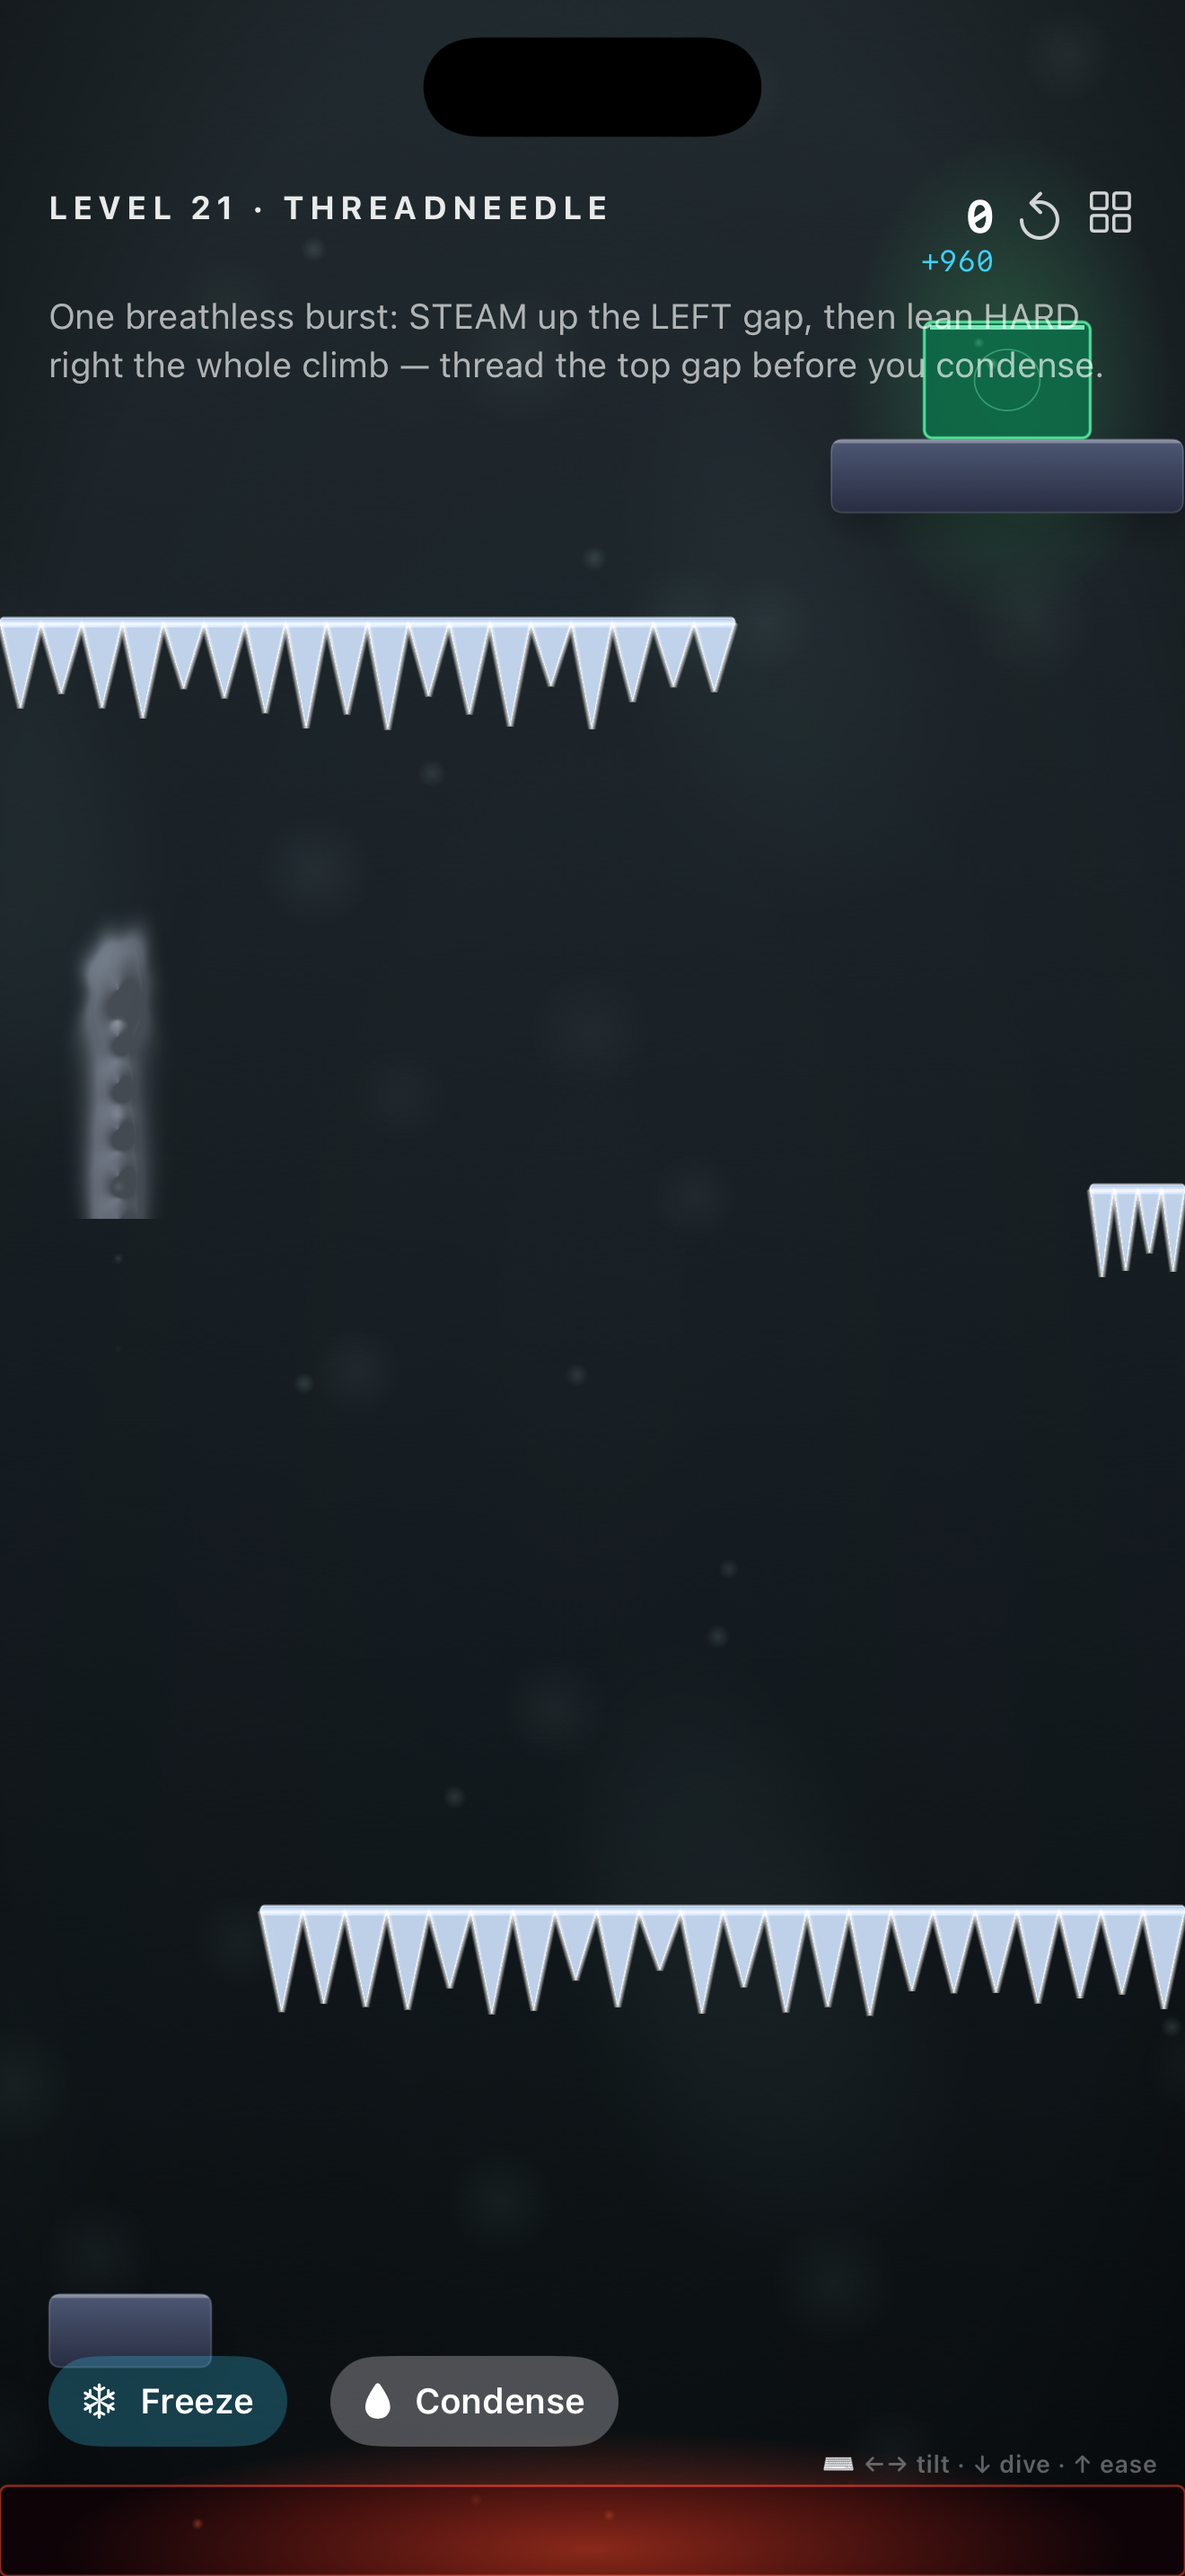
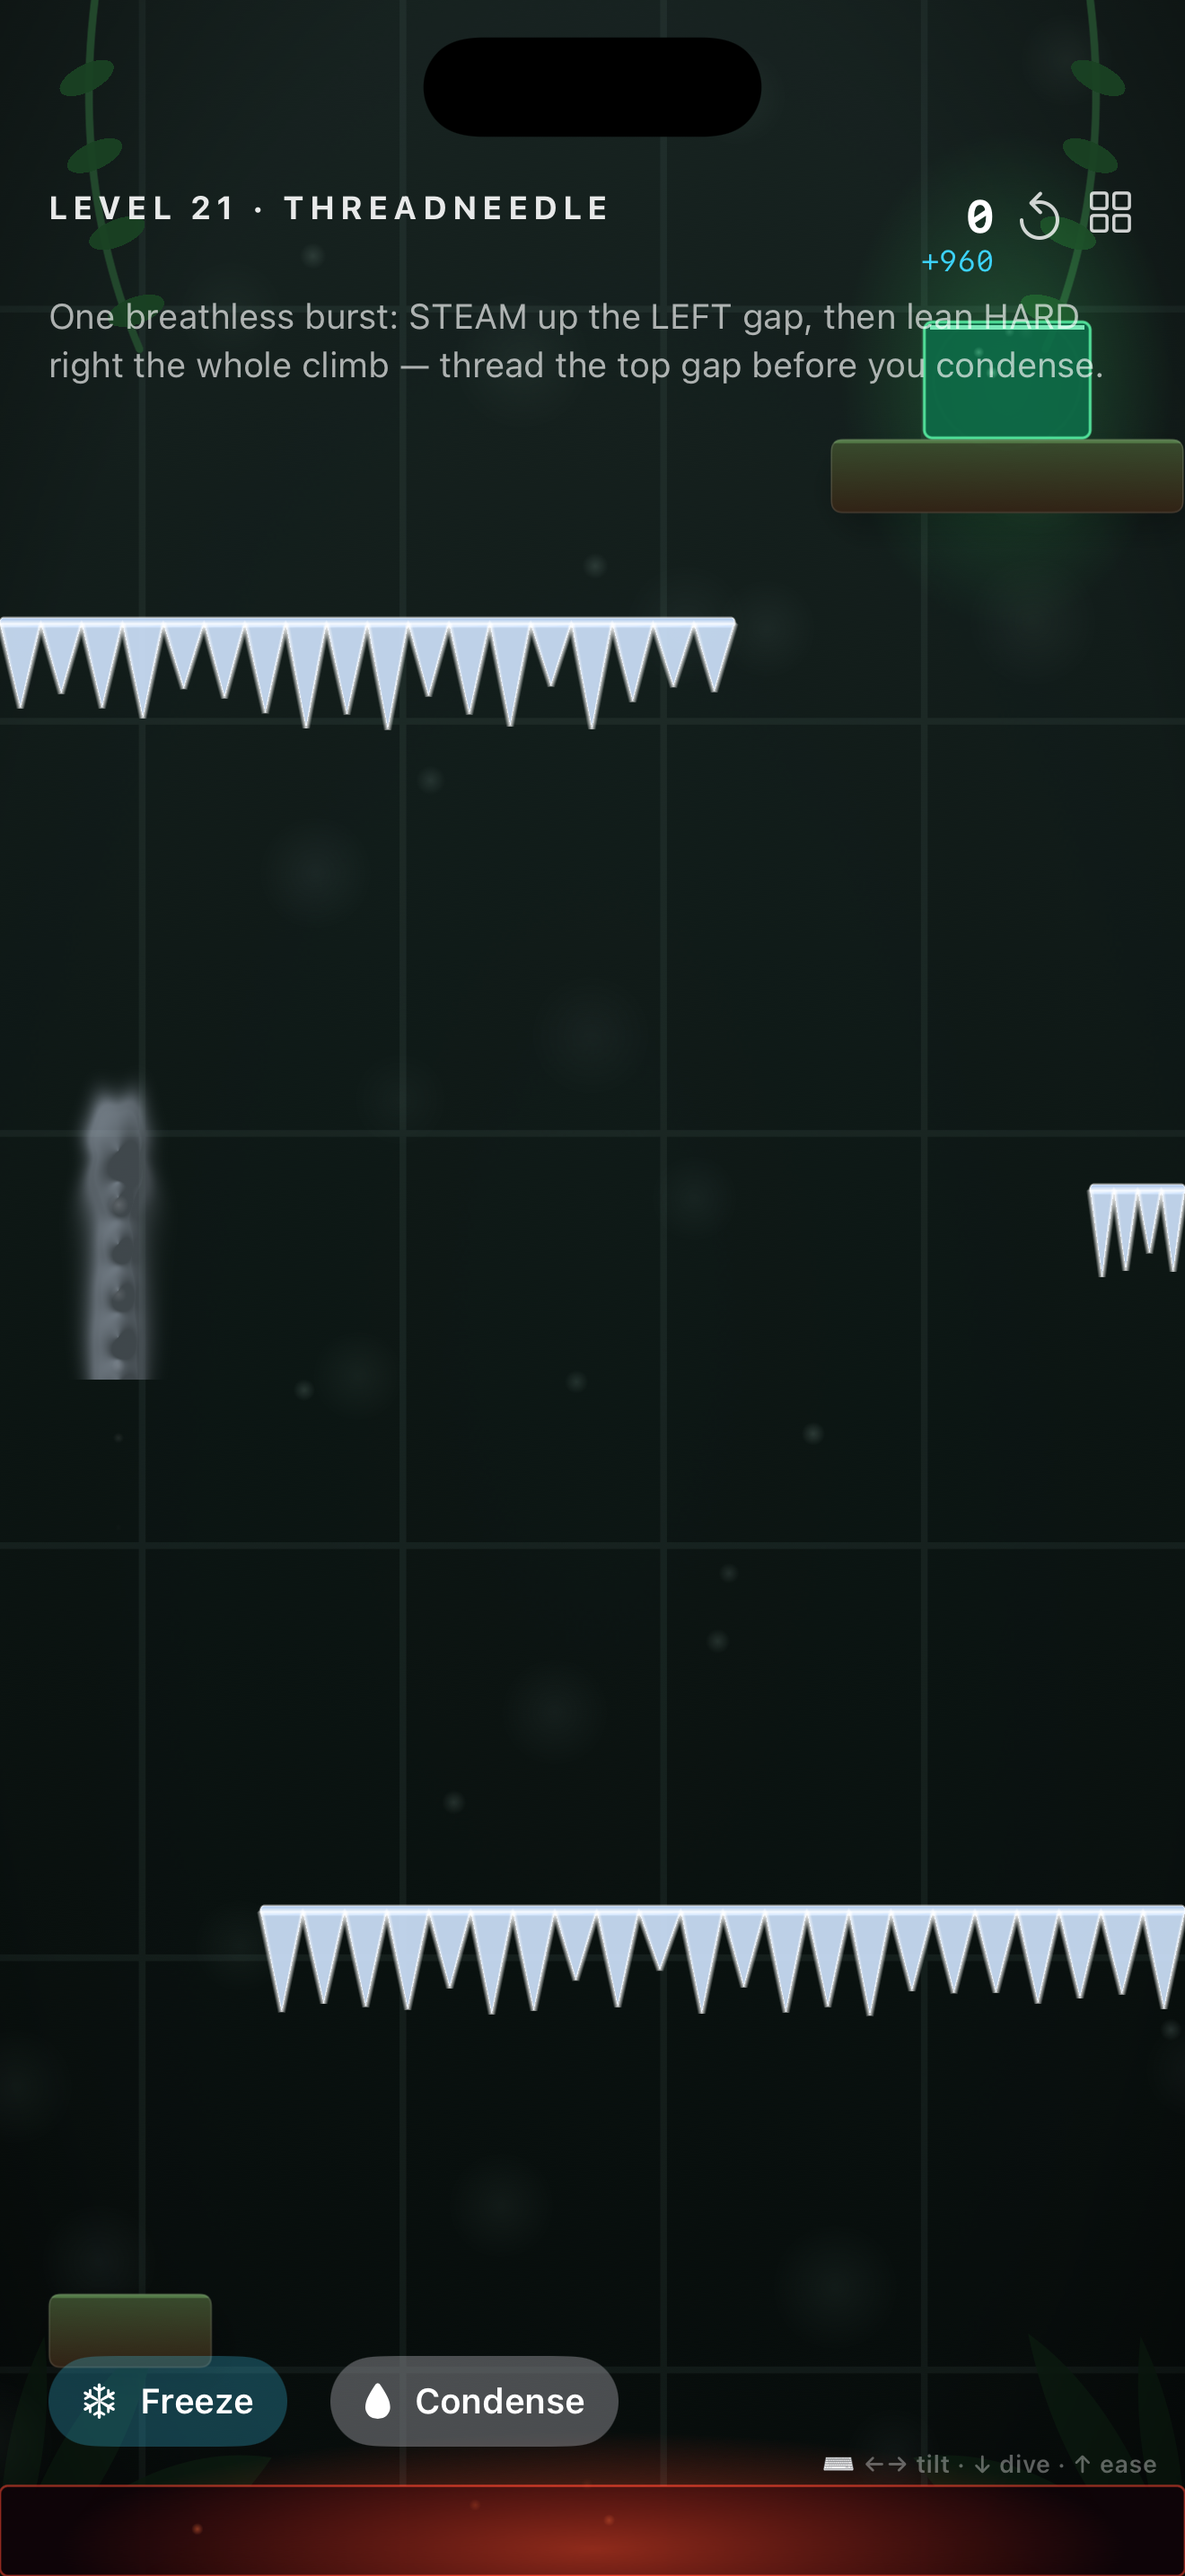
Retake 1.1 marketing screenshots with the diorama worlds
Claude-Session: https://claude.ai/code/session_01NG1HQKTRG8ywgR1sQvXfk9

diff --git a/marketing/whats-new-1.1.md b/marketing/whats-new-1.1.md
@@ -29,11 +29,15 @@ Water splatters. Ice flies. Steam rises.
 
 ## Screenshot set (marketing/screenshots-1.1/)
 
-`asc_*.png` are upload-ready at 1284×2778 (6.5"):
+`asc_*.png` are upload-ready at 1284×2778 (6.5"), showing the diorama
+worlds:
 1. `asc_1_menu.png` — level select with thumbnails (22 levels)
-2. `asc_2_water.png` — the photoreal droplet, abyss mood
-3. `asc_3_boiler.png` — Boiler Room: ice on grates, warm mood
-4. `asc_4_thread.png` — Threadneedle: vapor mid-climb, mist mood
-5. `asc_5_piston.png` — Piston & Pane: anti-phase lifts, ice curtain, storm mood
+2. `asc_2_water.png` — The Descent in the night kitchen (faucet, counters)
+3. `asc_3_boiler.png` — Boiler Room: ice on grates under the copper pipe
+4. `asc_4_thread.png` — Threadneedle: vapor mid-climb in the greenhouse
+5. `asc_5_piston.png` — Piston & Pane: rooftop rain and the ice curtain
 
 Suggested ASC order: 4 (steam!), 2, 3, 5, 1 — action first, menu last.
+If the description gets a refresh too, "every level is a miniature
+diorama — kitchens, freezers, boiler rooms, rooftops, greenhouses" now
+earns its place in the first paragraph.
